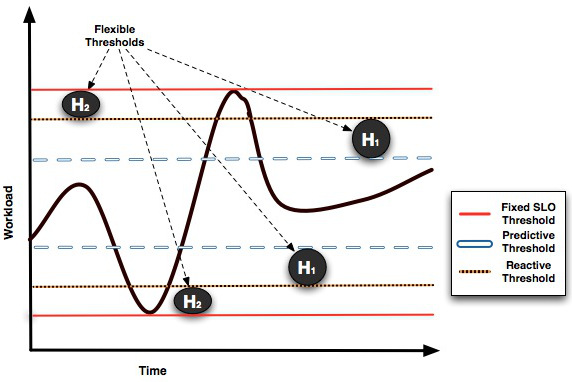
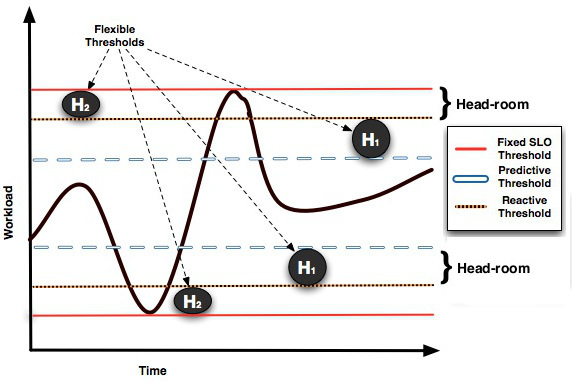
Modifications according to comments
git-svn-id: svn://svn.forge.objectweb.org/svnroot/contrail/trunk/conpaas@5227 ef35cc4a-2640-4bbf-98bc-65920db7d8ae

Changed region(s): [[0.7727, 0.2304, 1.0, 0.8063]]

diff --git a/doc/publications/paper-conpaas-provisioning/res_provisioning.tex b/doc/publications/paper-conpaas-provisioning/res_provisioning.tex
@@ -1,8 +1,9 @@
 We evaluate three resource provisioning algorithms: a trigger-based
 algorithm representing a baseline comparable to systems currently in
-production, and two new algorithms based on\ldots
-
-\fixme{We need to explain the principle behind our algorithms here.}
+production, and two new algorithms based on feedback techniques that alleviate
+the drawbacks of trigger-based systems by reacting in advance to traffic changes. 
+Moreover, one of these new algorithms provides a weighted load balancing mechanism to
+handle the resource heterogeneity of cloud infrastructures.
 
 
 %\subsection{Load-based provisioning}
@@ -31,9 +32,9 @@ RightScale~\cite{right-scale} or OpenShift~\cite{openshift}.
 
 For the sake of comparison, we designed and implemented a
 trigger-based provisioning mechanism in ConPaaS. This technique
-monitors CPU usage and application response time metrics, and assigns
+monitors the percentage of CPU usage and application response time metrics, and assigns
 a lower and upper threshold for each metric. It then creates or
-deletes VMs whenever one of the threshold is crossed. The thresholds
+deletes VMs whenever one of the threshold is crossed, as described in Algorithm~\ref{}. Analogous to traditional trigger-based systems, the thresholds
 are statically defined by the user before execution.
 
 \begin{algorithm}[t]
@@ -48,15 +49,15 @@ are statically defined by the user before execution.
 Collect monitoring data of each metric, \emph{data$_i$}\;
 \BlankLine
 \If{ no recent scaling operation}{
-\uIf{ avg(data$_i$) $>=$ \emph{SLO\_threshold\_min}$_i$ for at least one metric }{
+\uIf{ avg(data$_i$) $>=$ \emph{SLO\_threshold\_max}$_i$ for at least one metric }{
 ADD resources\;
 }
-\ElseIf{ avg(data$_i$) $<$ \emph{SLO\_threshold\_max}$_i$ for all metrics }{
+\ElseIf{ avg(data$_i$) $<$ \emph{SLO\_threshold\_min}$_i$ for all metrics }{
 REMOVE resources\;
 } 
 %}\Else{ Sleep during 5minutes \;}
 } 
-Wait for 5 minutes \; 
+Wait until the next reporting periond (5 minutes) \; 
 }
 }
 \caption{Trigger-based provisioning}
@@ -87,9 +88,10 @@ main factors:
   short traffic spikes. An excessively reactive algorithm cannot
   handle these situations well, and will cause frequent fluctuations
   in the number of allocated resources; this has negative effects on
-  the stability and performance of the system. It also increases the
-  infrastructure cost because it frequently stops machines very
-  shortly after starting them.
+  the stability and performance of the system. Considering the pricing 
+model of cloud providers that charges users on a per-hour basis, trigger-based systems also increase the infrastructure cost because they frequently terminate resources before this hour price boundary. 
+
+%machines very shortly after starting them.
 
 %Obviously, a reactive algorithm can be seen a good choice for resource provisioning, however. The system %performance of an application change in time if the type of workload changes.
 
@@ -167,17 +169,19 @@ of two levels of threshold ranges instead of one.
 
 \textbf{Weighted metrics:} As pointed out
 in~\cite{singh_autonomic_2010}, provisioning decisions solely made on
-the basis of request rate or CPU usage can incur errors by under- or
+the basis of request rate or percentage of CPU usage can incur errors by under- or
 over-provisioning an application. We propose instead to use a
-collection of metrics likely to indicate the need to scale the system
-up or down. Our algorithm continuously measures the correlation
-between each metric's values and the actual scaling decisions. We thus
-assign a weight to each metric according to its predictiveness. For
+collection of metrics (e.g. response time, request rate and cpu usage) likely to indicate the need to scale the system
+out or back. Our algorithm continuously measures the correlation
+between each metric's values and the actual scaling decisions. This method enables to better adapt the scaling decisions to the current workload requirements by identifying how metrics affect to the processing time. We thus
+assign a weight to each metric (correlation coefficient) according to its predictiveness. For
 example, when hosting the MediaWiki application, the hosting system
 needs to deal with requests having a wide diversity of computing
 complexity, and with significant variations in the ratios of simple
 vs.\ complex requests. Our algorithm therefore associates a higher
-weight to the CPU usage metric than to the request rate.
+weight to the CPU usage metric than to the request rate, as it affects to the response times.
+
+%This method enables to identify the metric that higher affect to the processing time based on the workload requirements. 
 
 % As pointed out in~\cite{singh_autonomic_2010} and \cite{roy_capacity_2011},
 
@@ -197,15 +201,15 @@ weight to the CPU usage metric than to the request rate.
 \KwResult{Scaling decisions}
 \BlankLine
 Create a queue to store historical workload, \emph{q}\;
-Establish flexible thresholds: \emph{pred\_thr} and \emph{reac\_thr} \;
+Establish two-level thresholds: \emph{pred\_thr} and \emph{reac\_thr} \;
 \BlankLine
 
 \While{auto-scaling is ON}{
-Initialize \emph{s\_bck} and\emph{s\_out} to 0\;
+Initialize variables \emph{s\_bck} and\emph{s\_out} to 0\;
 Collect monitoring data (last $\sim$5min), \emph{data}\;
 \BlankLine
 Add the most recent \emph{response\_time} value to \emph{q}\; \label{alg:esti1}
-Estimate historical workload trends (last $\sim$30min), \emph{td}\;
+Estimate workload trend (last $\sim$30min) of \emph{q}, \emph{td}\;
 \hspace{3mm}	- Increasing, \emph{td} = 1\;
 \hspace{3mm}	- Decreasing, \emph{td} = 0\;
 \hspace{3mm}	- Stable, \emph{td} = -1\;	\label{alg:esti2}
@@ -237,7 +241,7 @@ Estimate historical workload trends (last $\sim$30min), \emph{td}\;
 }
 Reset \emph{s\_bck} and\emph{s\_out} to 0 \;
 }
-Wait for 5 minutes\;
+Wait until next reporting period (5 minutes)\;
 }
 }
 }
@@ -258,7 +262,7 @@ decision has a delayed effect. Provisioning extra resources can take a
 couple of minutes before they are ready to process traffic. Besides,
 cloud computing resources are usually charged at a 1-hour granularity
 so the scaling decision has consequences at least during the first
-hours after provisioning. If is therefore important to estimate the
+hours after provisioning. It is therefore important to estimate the
 medium-term trend of response times in addition to any short-term
 bursts. We therefore estimate the response time trend using past values
 over a period of the same order of magnitude (30\ minutes in our
@@ -294,16 +298,16 @@ stable, increasing or decreasing.
 
 \textbf{Two-level thresholds:} Initially, the users define a fixed
 threshold range based on the performance requirements of their
-applications, denoted by SLO thresholds (Service Level Objective)
+applications, denoted by \emph{SLO thresholds} (Service Level Objective)
 thresholds in Figure~\ref{flexibleThresholds}. However, these upper
-and lower bounds only indicate when a SLO violation occurs. Thus, to
-prevent SLO violations, additional boundaries have to be defined. This
+and lower bounds only indicate the resource under-utilization or when a SLO violation occurs. Thus, to
+prevent these performance degradations, additional boundaries have to be defined. This
 mechanism establishes two levels of threshold ranges for each metric
 based on the bounds defined in the SLO. In
 Figure~\ref{flexibleThresholds}, these two extra thresholds called
 \emph{predictive} and \emph{reactive}, both with upper and lower
 bounds, create two "head-rooms" between the SLO threshold and
-them. The predictive head-room $H_1$ is intended to alert of possible
+them. The predictive head-room $H_1$ is intended to alert of future
 workload alterations when a metric exceeds its predictive bounds, thus
 increasing proportionally to its weight the chances to trigger scaling
 actions (denoted by \emph{s\_bck} and \emph{s\_out} in
@@ -311,11 +315,11 @@ Algorithm~\ref{history_prov} lines
 \ref{alg:thr1}-\ref{alg:thr2}). Otherwise, the scaling chances will
 drop in the same proportion (Line \ref{alg:thr3}). The reactive
 head-room $H_2$ is used to trigger scaling actions if the workload
-presents a \emph{constant} variation (Lines
-\ref{alg:thr4}-\ref{alg:thr5}). This mechanism in conjunction with the
+presents a \emph{increasing or decreasing} variation (Lines
+\ref{alg:thr4}-\ref{alg:thr5}), which may cause SLO violations if it keeps such a trend. This mechanism in conjunction with the
 workload trend estimation allow to better analyze the evolution of
 performance fluctuations, and as a consequence improves the accuracy
-of our decisions. In the future, these two-levels of thresholds could
+of our decisions by reacting in advance. In the future, these two-levels of thresholds could
 be adjusted depending on the hardware configuration of each
 provisioned VM, as introduced in~\cite{beloglazov_adaptive_2010}.
 
@@ -369,7 +373,7 @@ patterns, or due to changes related to the hosting of the virtual servers
 
 In order to address these issues in ConPaaS we implemented a weighted 
 load balancing system in which the weights of the servers are 
-periodically re-adjusted automatically, based on the monitoring data.  
+periodically re-adjusted automatically, based on the monitoring data (e.g. response time, request rate and cpu usage).  
 This method assigns the same weight to each backend server at the 
 beginning of the process. The weights are then periodically
 adjusted (in our experiments, every $\sim$ 15min) proportionally 

diff --git a/doc/publications/paper-conpaas-provisioning/experiments.tex b/doc/publications/paper-conpaas-provisioning/experiments.tex
@@ -21,9 +21,9 @@ We configured the experiments as follows:
 \item We fixed a SLO of 700 milliseconds at the service's side (denoted by a red Line on Figures~\ref{naiveDas4},\ref{historyDas4},\ref{naiveEC2},\ref{historyEC2}).
 
 
-\item The dynamic load-balancing weights provisioning technique was only evaluated on the heterogeneous platform Amazon EC, as it only brings improvements in environments where VMs may have different hardware configurations. 
+\item The weighted load-balancing provisioning technique was only evaluated on the heterogeneous platform Amazon EC2, as it only brings improvements in environments where VMs may have different hardware configurations. 
 
-\item The algorithms used the same statistically-chosen performance threshold ranges. 
+\item The algorithms used the same statistically-chosen performance threshold ranges for response time and cpu utilization. 
 
 %\item A minimum interval of 15 minutes has been established between scaling actions to avoid excessive oscillations. 
 \end{itemize}
@@ -52,7 +52,7 @@ moments in time, due to its excessively reactive behavior. As we
 mentioned, this algorithm fails easily during traffic spikes, as it
 adds or removes VMs without evaluating the workload trend. The
 feedback algorithm, as shown on Figure~\ref{historyDas4}, handles the
-traffic spikes better and can achieve fewer SLO violations;
+traffic spikes better and can minimize the amount of SLO violations;
 specifically, there were 31.72\% less SLO violations in comparison
 with the trigger-based algorithm.
 
@@ -137,7 +137,7 @@ feedback and dynamic load-balancing algorithm reduce the number of SLO
 violations and provide a more stable performance pattern. Specifically,
 with the feedback algorithm  we obtained 41.3\% less SLO violations than
 with the trigger-based algorithm, while the dynamic load balancing algorithm
-had 47.6\% less violations than the trigger-based one.
+had 47.6\% less violations than the trigger-based one. This improvement of 6.3\% responds to an efficient distribution of the incoming traffic across the allocated resources.
 
 %On the other hand, Figure~\ref{historyEC2} and Figure~\ref{historyWeightEC2} show as the feedback and dynamic load-balancing weight algorithm behave similarly. Even though both algorithms are best-effort, there is an important reduction in the number of SLO violations during the trace execution. In particular, the feedback algorithm reduces the SLO violations in a  41.1\%, while the dynamic load-balancing weights algorithm does it in a 47.6\%. Like on DAS-4, the feedback algorithm presents a stable performance pattern without having sudden and bursty workload alterations. Besides, as shown on Figure~\ref{historyWeightEC2}, the dynamic load-balancing weights algorithm algorithm has a similar behavior to the feedback algorithm in terms of system performance, however. This algorithm improves the SLO enforcement in a 6.3\% in comparison with feedback at the client's side. 
 
@@ -175,13 +175,14 @@ had 47.6\% less violations than the trigger-based one.
 
 \paragraph{Resource consumption.}
 As explained above, the trigger-based algorithm sometimes initiates
-series of scaling back quickly followed by scaling out operations, 
+series of scaling back operations quickly followed by scaling out operations, 
 due to the fact that it does not use any history information that could
 prevent these oscillations. This can be seen on Figure~\ref{resEC2},
 in the time interval between \emph{t=400min} and \emph{t=500min}.
 The feedback and dynamic load balancing algortithms have similar
 and more stable patterns of resource consumption, which show the
-benefits of using trend estimations and two-level threshold ranges.
+benefits of using trend estimations and two-level threshold ranges. These two methods enable
+to detect and react in advance to future workload variations.
 
 %The resource usage on EC2 presents important changes, as shown on Figure~\ref{resEC2}. When using the trigger-based provisioning, the fluctuations in the system performance are explained as a result of a high frequency of scaling operations. In concrete, the fluctuations caused at the interval of time between \emph{t=400min} and \emph{t=500min} (see on Figure~\ref{naiveEC2}), match with the provisioning decisions made during the same interval of time on Figure~\ref{resEC2}. If we now pay attention to the feedback, and dynamic load-balancing weights algorithms, their resource consumptions are identical along the execution. Indeed, both algorithms decided to scale out the system during the interval of time comprised between \emph{t=1050min} and \emph{t=1400min}, to prevent future SLO violations that occurred when looking at the trigger-based algorithm on Figure~\ref{naiveEC2}. In particular, this situation demonstrates the benefits of using two-level threshold ranges to provide a predictive provisioning mechanism, thus improving the user experience.
 
@@ -233,7 +234,7 @@ a greater performance improvement.
 
 We also note that there is not a remarkable difference in terms of infrastructure cost between the 
 different algorithms. Despite the frequent scaling actions launched by the trigger-based algorithm, its cost is slightly different than those required by others algorithms; but on the other hand, this algorithm leads to more SLO violations and more
-instability. An explaination comes from the frequent creation/removal of VM instances occurring during interval of time of 1h.
+instability. An explaination comes from the frequent creation/removal of VM instances occurring within a time interval of 1hour.
 
 %The experiments on EC2 leads to several conclusions. The use of the trigger-based algorithm shows again how aggressive provisioning increases the resource consumption and the chances of degraded application performance due to frequents scaling actions. These actions are triggered as an effect associated to the traffic and heterogeneity of the requests, when handling bursty workload conditions. On the other hand, the feedback and dynamic load-balancing algorithms constitute two robust provisioning models that offer an efficient resource consumption and keep stable the application performance during the trace execution. 
 
@@ -288,9 +289,9 @@ of the SLO.
 
 By using a few techniques that are relatively easy to implement (like
 estimating the workload's trend for the last 30min monitoring data and using
-two levels of thresholds for the provisioning metrics) we showed that
+two-level thresholds for the provisioning metrics) we showed that
 we can significantly reduce the number of SLO violations and
-obtain more stability. Although there is still room for improvement
+improve the perfomance stability. Although there is still room for improvement
 in our techniques, from the experimental results we can draw the
 conclusion that implementing provisioning mechanisms that go
 beyond simple triggers is effective and should be considered

diff --git a/doc/publications/paper-conpaas-provisioning/relatedWorks.tex b/doc/publications/paper-conpaas-provisioning/relatedWorks.tex
@@ -1,14 +1,14 @@
 
 There is a wide literature on issues related to dynamic resource provisioning for cloud web applications. Different approaches present solutions based on queuing models~\cite{urgaonkar_agile_2008}, mathematical models~\cite{muppala_regression-based_2012} or even approaches using neural networks techniques~\cite{islam_empirical_2012}. However, most of these models require a deep understanding in mathematics or machine learning techniques which are not easily interpreted by non specialists. Besides the traffic in web applications is shaped by a combination of different factors such as diurnal/seasonal cycles that follows an irregular pattern, thus making extremely challenging the design and development of realistic and accurate provisioning mechanisms. 
 
-These well-known drawbacks force to IaaS like Amazon EC2 and Windows Azure, or PaaS like RightScale and OpenShift,  to design simple trigger-based auto-scaling systems, instead of relying on approaches from academic research. Unfortunately, these scaling systems are imprecise and wasteful in terms of resource consumption and cost savings. % an easy target for flash crowds.
+These well-known drawbacks force to IaaS like Amazon EC2 and Windows Azure, or PaaS like RightScale and OpenShift,  to design simple trigger-based auto-scaling systems, instead of relying on approaches from academic research. Unfortunately, these scaling systems are imprecise and wasteful in terms of resource consumption and cost savings~\cite{ghanbari_exploring_2011}. % an easy target for flash crowds.
 
 As a consequence, more relevant and realistic academic approaches have been proposed over the last years. \emph{Urgaonkar et al.}~\cite{urgaonkar_agile_2008} designed and implemented a predictive and reactive mechanism using a queuing model to decide the number of resources to be provisioned, and an admission control mechanism to face extreme workload variations. 
-Even though the use of admission mechanisms enforce the performance requirements, it reduces the QoS of the service, and therefore affects user experience. A differnent approach for handling the worload variations was proposed by \emph{Muppala et al.}~\cite{muppala_regression-based_2012}, where offline training techniques were utilized to gather information about the resource requirements of the incoming requests, and thereby to improve the accuracy of the scaling decisions. In the same vein, DejaVu~\cite{vasic_dejavu_2012} and CBMG~\cite{roy_efficient_2011} built similar mechanisms to classify the workload need by analyzing recent traffic spikes or the customer behavior. However, these approaches require additional resources to identify the workload requirements, and an exhaustive knowlegde of the deployed applications; thus preventing its integration in existing auto scaling systems.
+Even though the use of admission mechanisms enforce the performance requirements, it reduces the QoS of the service, and therefore affects user experience. A different approach for handling sudden traffic fluctuations was proposed by \emph{Muppala et al.}~\cite{muppala_regression-based_2012}, where offline training techniques were utilized to gather information about the resource requirements of the current workload, and thereby to improve the accuracy of the scaling decisions. In the same vein, DejaVu~\cite{vasic_dejavu_2012} and CBMG~\cite{roy_efficient_2011} built similar mechanisms to classify the workload need by analyzing recent traffic spikes or the customer behavior. However, these approaches require additional resources to identify the workload requirements, and an exhaustive knowledge of the deployed applications; thus preventing its integration in existing autoscaling systems.
 
 %As we mentioned, offline and online profiling are promising techniques when handling unpredictable and temporal burstly workloads in web applications. 
 
-As a proposal closely related to ours, \emph{Ghanbari et al.}~\cite{ghanbari_exploring_2011} designed an auto scaling system using control theoretic and rules-based models. The authors claimed for simpler provisioning mechanisms in comparison with the sophisticated academic approaches. However, factors such as resource heterogeneity were not addressed in this system.  
+As a proposal closely related to ours, \emph{Ghanbari et al.}~\cite{ghanbari_exploring_2011} designed an autoscaling system using control theoretic and rules-based models. The authors claimed for simpler provisioning mechanisms in comparison with the sophisticated academic approaches. However, factors such as resource heterogeneity were not addressed in this system.  
 
 %Regarding the management of flash crowds~\cite{zhang_resilient_2009}, a proactive application %workload manager was designed to separate the user requests between two groups of servers:  %one  named  'base workload'  referred to the smaller and smoother variations in the workload; %and the other 'tresspassing' referred to the temporal burstly workloads caused by flash crowds. %To do this, the authors attempt to divide the data items into popular and less popular, and %place them in the right group of servers. Even tough a realistic evaluation was conducted on %Amazon EC2 utilizing real traces (Yahoo video streaming), authors do not explain in details how %the dynamic resource provisioning is done. 
 

diff --git a/doc/publications/paper-conpaas-provisioning/paper.tex b/doc/publications/paper-conpaas-provisioning/paper.tex
@@ -82,7 +82,6 @@ This work is partially funded by the FP7 Programme of the European
 Commission in the context of the Contrail project under Grant
 Agreement FP7-ICT-257438.
 
-\fixme{Probably also mention ERRIC here. ??}
 
 
 \bibliographystyle{plain}
